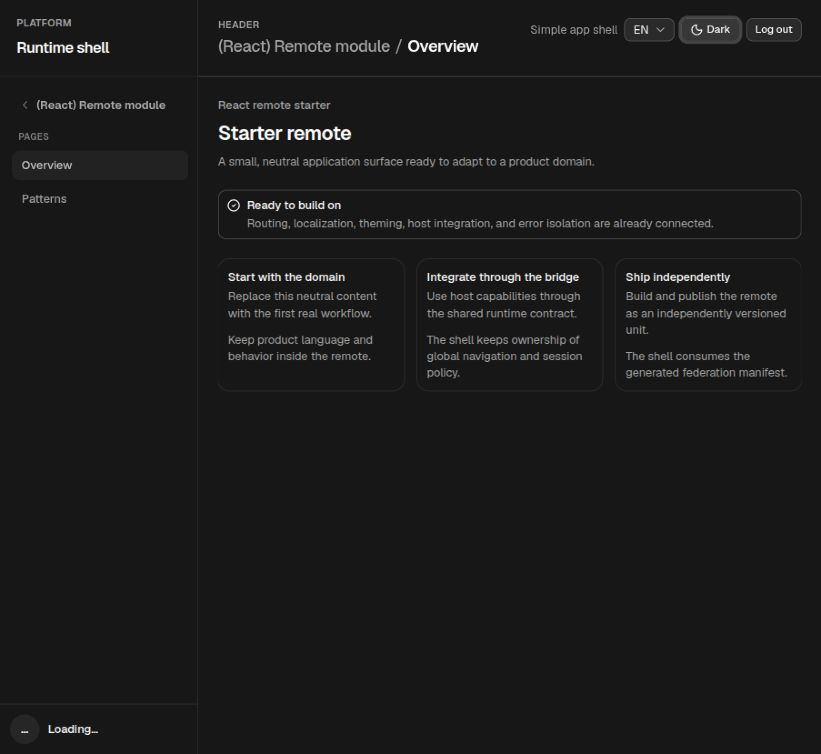
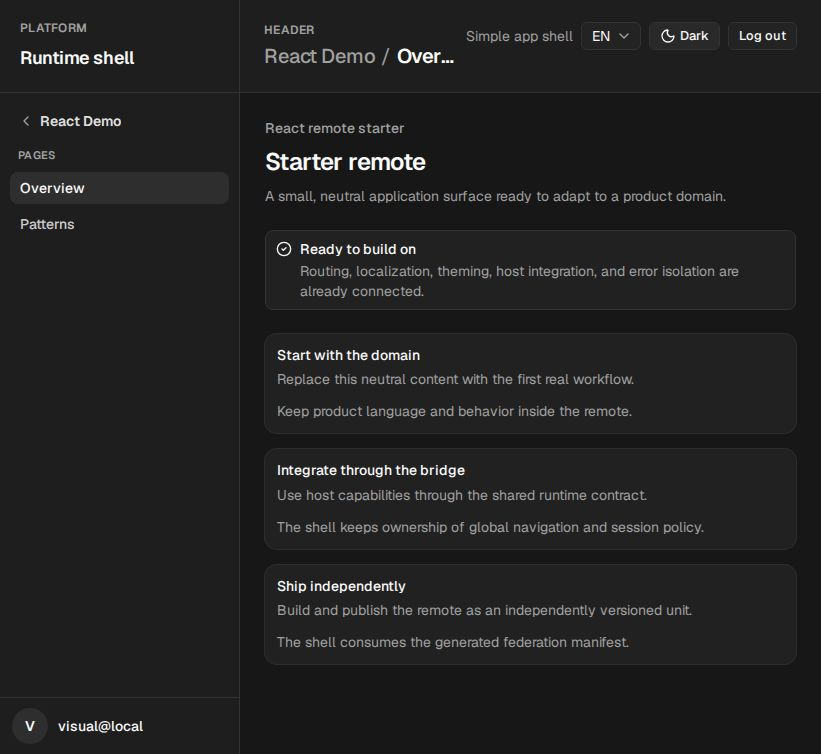
docs(docs/visual-reference): update UI screenshots

diff --git a/src/pages/patterns/ui/patterns-page.tsx b/src/pages/patterns/ui/patterns-page.tsx
@@ -70,8 +70,8 @@ export function PatternsPage() {
   };
 
   return (
-    <section className="@container/page space-y-6">
-      <header className="space-y-2">
+    <section className="@container/page flex flex-col gap-6">
+      <header className="flex flex-col gap-2">
         <p className="text-muted-foreground text-sm font-medium">
           {t('patterns.eyebrow')}
         </p>
@@ -96,8 +96,8 @@ export function PatternsPage() {
             <CardDescription>{t('patterns.form.description')}</CardDescription>
           </CardHeader>
           <CardContent>
-            <form className="space-y-4" onSubmit={submitExample}>
-              <div className="space-y-2">
+            <form className="flex flex-col gap-4" onSubmit={submitExample}>
+              <div className="flex flex-col gap-2">
                 <Label htmlFor={exampleNameId}>{t('patterns.form.name')}</Label>
                 <Input
                   required
@@ -108,7 +108,7 @@ export function PatternsPage() {
                 />
               </div>
 
-              <div className="space-y-2">
+              <div className="flex flex-col gap-2">
                 <Label>{t('patterns.form.state')}</Label>
                 <Select
                   value={exampleState}

diff --git a/src/app/ui/module-nav.tsx b/src/app/ui/module-nav.tsx
@@ -29,7 +29,7 @@ export function ModuleNav({
   const locale: AppLocale = isAppLocale(i18n.language) ? i18n.language : 'en';
 
   return (
-    <header className="border-border bg-card space-y-3 rounded-xl border p-3 shadow-sm">
+    <header className="border-border bg-card flex flex-col gap-3 rounded-xl border p-3 shadow-sm">
       <div className="flex min-w-0 flex-wrap items-center justify-between gap-3">
         <p className="font-heading font-semibold">{t('nav.moduleTitle')}</p>
         <div className="flex items-center gap-2">

diff --git a/src/app/styles/index.css b/src/app/styles/index.css
@@ -2,6 +2,9 @@
  * Embedded-safe CSS entry. Tailwind utilities are generated without the
  * document-wide Preflight import. The emitted graph is demoted into the
  * shell-owned `rmf-remote` cascade layer by the Vite plugin.
+ *
+ * Use `gap-*`, not `space-y-*`. Sibling `margin` from `space-y-*` loses to
+ * the shell Preflight reset once this graph sits in `rmf-remote`.
  */
 @import 'tailwindcss/utilities.css' layer(utilities);
 @import 'tw-animate-css';

diff --git a/src/pages/overview/ui/overview-page.tsx b/src/pages/overview/ui/overview-page.tsx
@@ -15,8 +15,8 @@ export function OverviewPage() {
   const { t } = useTranslation();
 
   return (
-    <section className="@container/page space-y-6">
-      <header className="space-y-2">
+    <section className="@container/page flex flex-col gap-6">
+      <header className="flex flex-col gap-2">
         <p className="text-muted-foreground text-sm font-medium">
           {t('overview.eyebrow')}
         </p>

diff --git a/src/app/app.tsx b/src/app/app.tsx
@@ -36,7 +36,7 @@ function AppRoutes({
 }) {
   return (
     <TooltipProvider>
-      <section className="min-w-0 space-y-6 overflow-x-auto p-px">
+      <section className="flex min-w-0 flex-col gap-6 overflow-x-auto p-px">
         {frame}
 
         <Routes>
